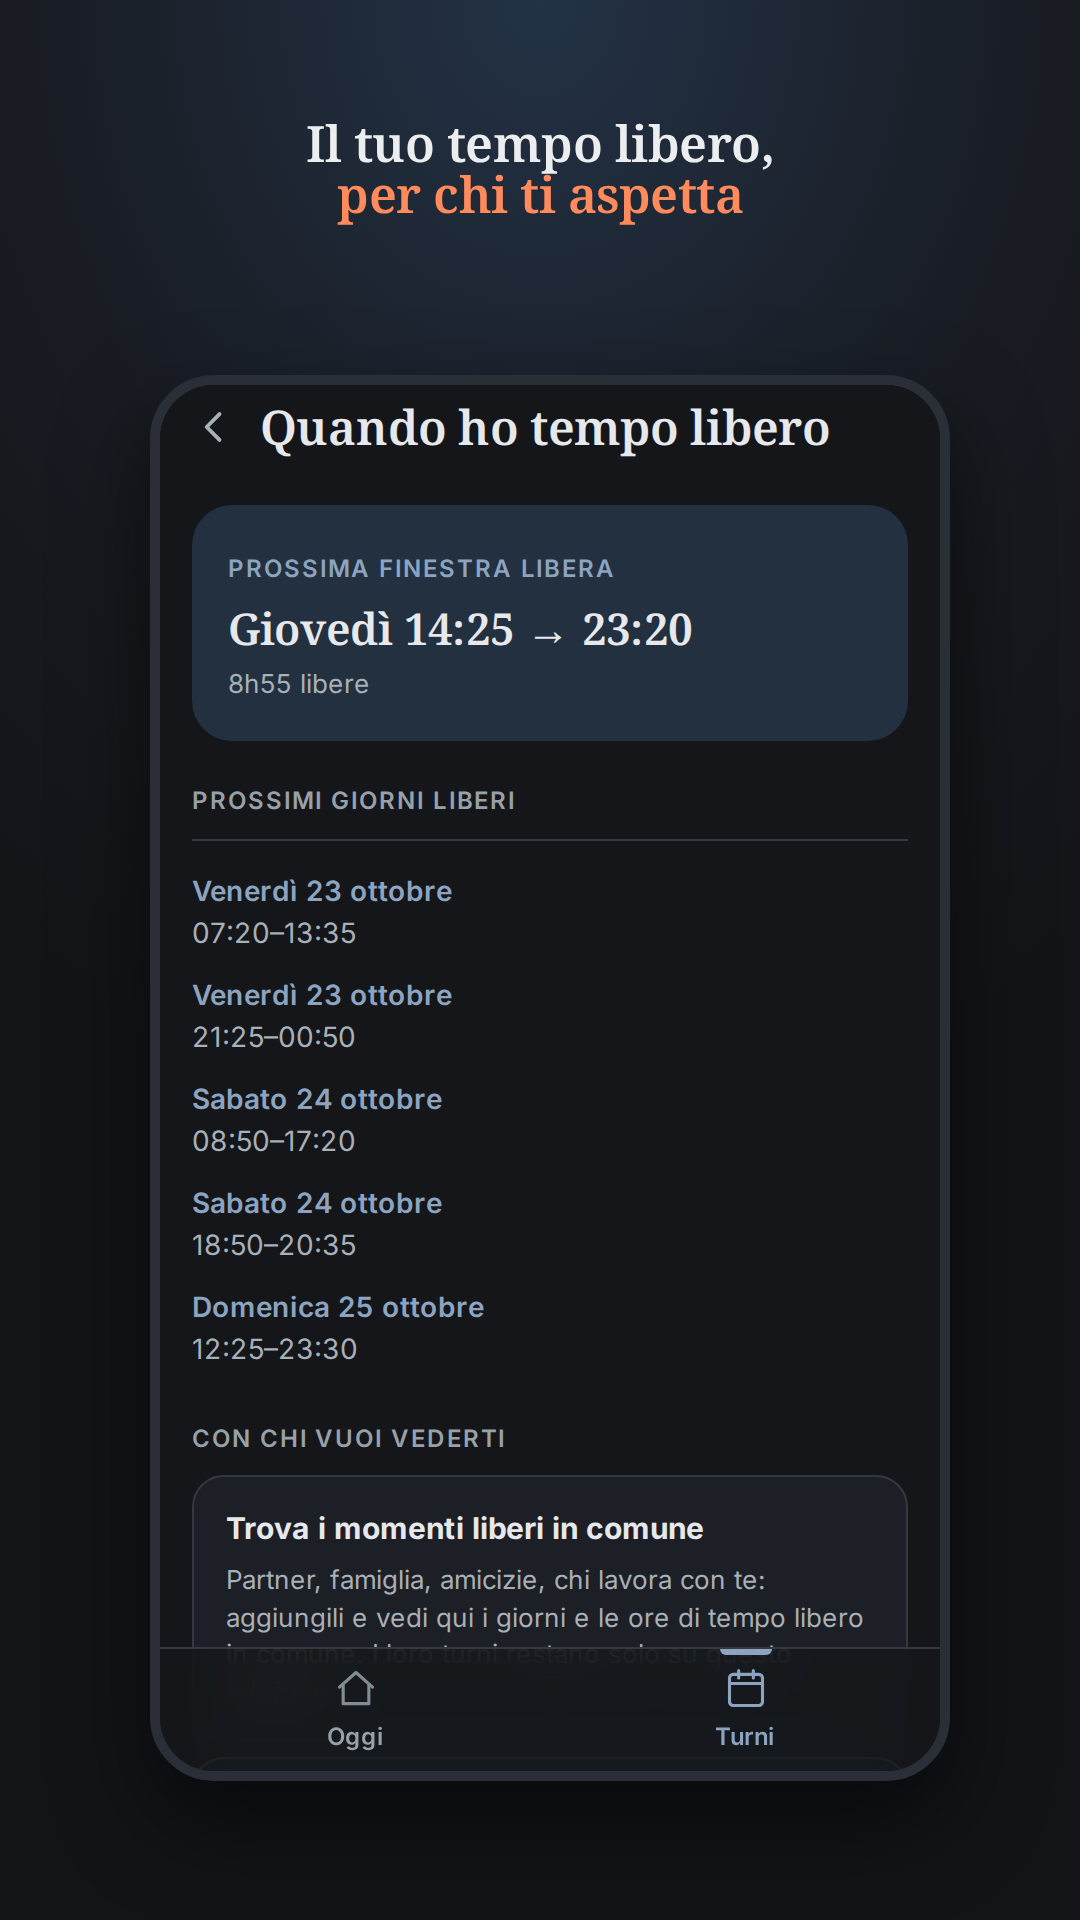
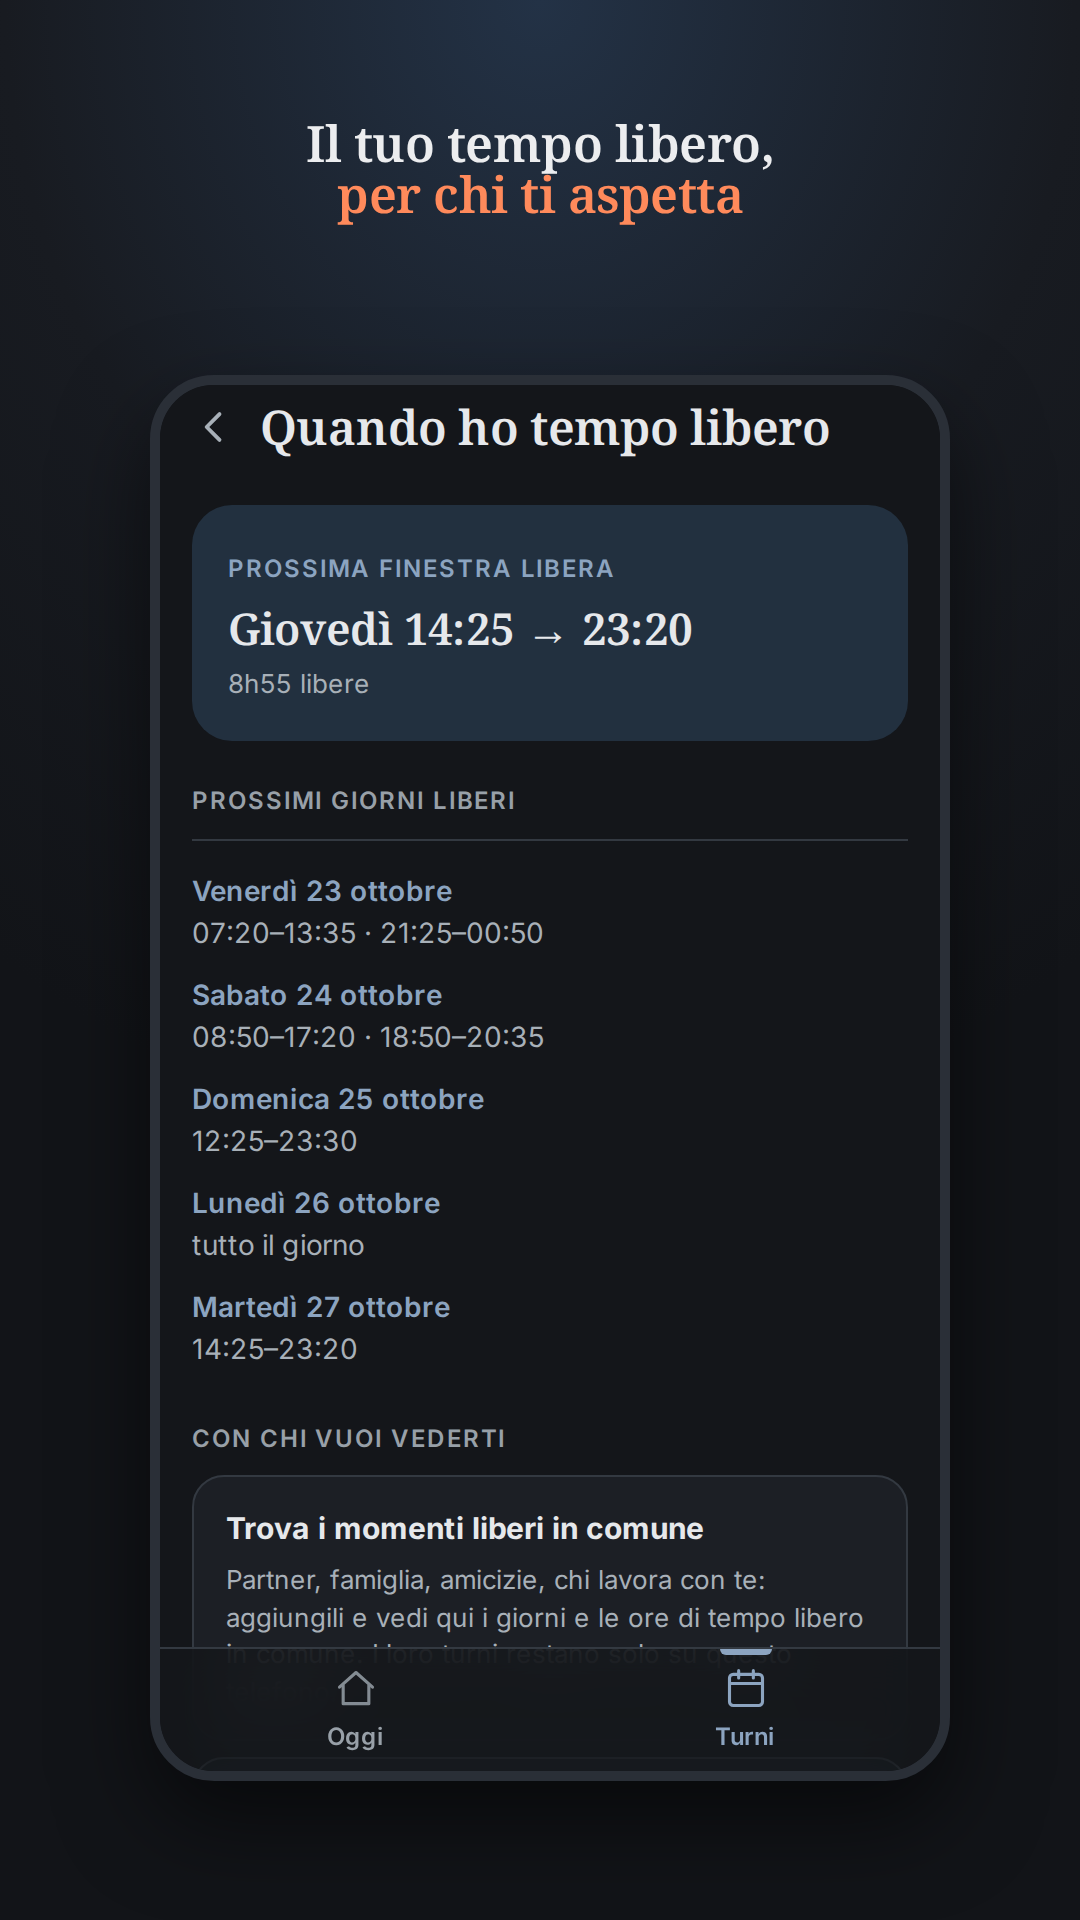
Grafici: assi orari, picco distinguibile, voto per giorno leggibile
Revisione di tutti i grafici e numeri dell'app con le regole di dataviz
(forma, colore verificato con lo script, segni, etichette).

- Turni e Oggi: le barre del tempo hanno le ore di riferimento (00, 06,
  12, 18) e linee sottili sotto le barre; prima non si capiva dove cadesse
  la mezzanotte né se il sonno fosse di giorno.
- Picco di sonnolenza: in tema scuro il rosso era indistinguibile
  dall'arancio del turno (ΔE 3,7). Ora è un punto con anello (forma) in un
  colore suo, --picco, verificato su chiaro e scuro.
- Barre del turno in --orange-bar: sul chiaro contrasto 3:1 o più.
- Voto per giorno: una riga, nome intero (Smonto distinto da Riposo),
  valore con la virgola in fondo alla barra; colore solo sul giorno che
  pesa di più, gli altri neutri.
- Debito di sonno: numero senza segno ridondante, in sans; sparkline
  grigia con lo zero come riferimento, colore sul punto di oggi, date agli
  estremi.
- Tempo libero: un giorno per riga, finestre dello stesso giorno insieme.
- Test: tests/ui/grafici.mjs. Screenshot dello Store rigenerati.

Claude-Session: https://claude.ai/code/session_01R7d13vswTViiovv4LeTsYc

Changed region(s): [[0.1833, 0.4688, 0.4889, 0.7188]]

diff --git a/index.html b/index.html
@@ -135,6 +135,7 @@ try{
   --orange-bar:#FF6B35;
   --orange:#FF9068; --orange-fill:#FF6B35; --orange-soft:#3A2119;
   --risk:#FF6B5C; --risk-soft:#3A1C18; --risk-line:#7A342C;
+  --picco:#D98CF0;   /* picco di sonnolenza nei grafici: il rosso di --risk qui si confonde con l'arancio del turno */
   --sleep-fill:#2D5A8C; --ok:#5FBF85; --on-warm:#15171A;
   --bg-blur:rgba(20,22,26,0.85);
   --warm-tint:#241C15; --cool-tint:#182029;
@@ -154,6 +155,7 @@ try{
     --blue:#2D5A8C; --blue-fill:#2D5A8C; --blue-soft:#E4EBF3; --blue-lt:#5B87B5; --su-blu:#FFFFFF;
     --orange:#B24B25; --orange-fill:#FF6B35; --orange-bar:#D9541F; --orange-soft:#FCE9E1;
     --risk:#C0392B; --risk-soft:#FBE9E7; --risk-line:#E57368;
+    --picco:#8E2A6B;
     --sleep-fill:#24496F; --ok:#2E7D4F; --on-warm:#15171A;
     --bg-blur:rgba(255,255,255,.82);
     --warm-tint:#FBF1E9; --cool-tint:#EAF0F6;
@@ -176,6 +178,7 @@ try{
   --orange-bar:#FF6B35;
   --orange:#FF9068; --orange-fill:#FF6B35; --orange-soft:#3A2119;
   --risk:#FF6B5C; --risk-soft:#3A1C18; --risk-line:#7A342C;
+  --picco:#D98CF0;   /* picco di sonnolenza nei grafici: il rosso di --risk qui si confonde con l'arancio del turno */
   --sleep-fill:#2D5A8C; --ok:#5FBF85; --on-warm:#15171A;
   --bg-blur:rgba(20,22,26,0.85);
   --warm-tint:#241C15; --cool-tint:#182029;
@@ -188,6 +191,7 @@ try{
   --blue:#2D5A8C; --blue-fill:#2D5A8C; --blue-soft:#E4EBF3; --blue-lt:#5B87B5; --su-blu:#FFFFFF;
   --orange:#B24B25; --orange-fill:#FF6B35; --orange-bar:#D9541F; --orange-soft:#FCE9E1;
   --risk:#C0392B; --risk-soft:#FBE9E7; --risk-line:#E57368;
+  --picco:#8E2A6B;
   --sleep-fill:#24496F; --ok:#2E7D4F; --on-warm:#15171A;
   --bg-blur:rgba(255,255,255,.82);
   --warm-tint:#FBF1E9; --cool-tint:#EAF0F6;
@@ -497,7 +501,13 @@ border-top:5px solid var(--ink)}
    che la striscia usava per conto suo (--sleep-fill/--orange-bar) —
    quei token restano dove servivano altrove (#band), qui la tinta è la
    stessa che l'utente vede già ovunque per "sonno" e "turno". */
-.cbar{position:absolute;top:0;bottom:0;border-radius:99px;background:var(--blue)}
+.cbar{position:absolute;top:0;bottom:0;border-radius:99px;background:var(--blue);z-index:2}
+.crows{position:relative}
+.cgrid{position:absolute;top:0;bottom:0;left:86px;right:0;z-index:1;pointer-events:none}
+.cgrid i{position:absolute;top:0;bottom:0;width:1px;background:var(--line);transform:translateX(-.5px)}
+.caxis{display:flex;align-items:flex-end;gap:8px;height:16px;margin-bottom:2px}
+.caxis .crail{background:none;height:16px}
+.caxis .crail span{position:absolute;bottom:0;transform:translateX(-50%);font-size:10.5px;line-height:1;color:var(--faint);white-space:nowrap}
 .cbar.nap{opacity:.5}
 .lnk{background:none;border:none;padding:6px 0;color:var(--blue);font-family:inherit;
 font-size:14px;cursor:pointer;text-decoration:underline;text-underline-offset:3px;min-height:44px}
@@ -517,7 +527,7 @@ html.js-lento .jsoff{display:block}
 .ecc{background:var(--blue-soft);border:1px solid var(--blue-lt);border-radius:var(--r);padding:14px 15px;margin:10px 0 4px}
 .ecc>b{display:block;font-size:16px;margin-bottom:3px}
 .crow.mod .ccode{text-decoration:underline;text-underline-offset:2px}
-.cbar.sh{background:var(--orange-fill)}
+.cbar.sh{background:var(--orange-bar)}
 .key{display:flex;gap:14px;margin-top:8px;font-size:12px;color:var(--faint);flex-wrap:wrap}
 .mese{background:var(--s1);border:1px solid var(--line);border-radius:var(--r);padding:12px 14px;margin-top:12px}
 .mese-testa{display:flex;align-items:center;justify-content:space-between;gap:8px}
@@ -564,7 +574,7 @@ display:flex;flex-direction:column;align-items:center;justify-content:center;gap
 .sg-azioni .btn{flex:1 1 140px;min-height:46px}
 .mese-num{display:grid;grid-template-columns:repeat(auto-fit,minmax(88px,1fr));gap:8px;margin-top:10px}
 .mese-num div{background:var(--bg);border-radius:10px;padding:8px 10px}
-.mese-num b{display:block;font-size:20px;color:var(--ink);font-variant-numeric:tabular-nums}
+.mese-num b{display:block;font-size:20px;color:var(--ink)}
 .mese-segna{display:flex;flex-direction:column;align-items:center;justify-content:center;width:100%;min-height:46px;margin-top:10px;font-weight:600}
 .mese-segna small{font-size:12px;font-weight:400;color:var(--dim);margin-top:1px}
 .mese-vuoto{margin:10px 0 0;font-size:14px;color:var(--dim)}
@@ -573,8 +583,14 @@ display:flex;flex-direction:column;align-items:center;justify-content:center;gap
 .mese .hint{margin:8px 0 0}
 .key i{display:inline-block;width:10px;height:7px;border-radius:3px;margin-right:5px;vertical-align:1px}
 
-.cyb{display:inline-block;width:100%;height:9px;background:var(--s2);border-radius:9px;overflow:hidden;vertical-align:middle}
-.cyb i{display:block;height:100%;background:var(--blue-fill);border-radius:9px}
+.vrow{display:grid;grid-template-columns:minmax(84px,auto) 1fr 30px;align-items:center;gap:10px;padding:5px 0}
+.vlab{font-size:13.5px;color:var(--ink);white-space:nowrap}
+.vbar{height:8px;border-radius:0 4px 4px 0;background:var(--s2);overflow:hidden}
+.vbar i{display:block;height:100%;border-radius:0 4px 4px 0;background:var(--faint);opacity:.55}
+.vrow.giu .vbar i{background:var(--orange);opacity:1}
+.vrow.giu .vlab{font-weight:700}
+.vval{font-size:13.5px;font-weight:600;color:var(--ink);text-align:right}
+.vnota{font-size:13.5px;line-height:1.5;color:var(--ink);margin:10px 0 0}
 
 .card{background:var(--s1);border:1px solid var(--line);border-left-width:3px;border-radius:var(--r);padding:14px 15px;margin-bottom:10px;box-shadow:var(--shadow-card)}
 #benvenutoLink{border-left-color:var(--blue)}
@@ -754,6 +770,7 @@ padding:7px 15px;min-height:38px;border-radius:3px;cursor:pointer}
 .fg-legend{display:flex;gap:14px;margin-top:8px}
 .fg-key{display:flex;align-items:center;gap:5px;font-size:12px;color:var(--faint)}
 .fg-key i{width:8px;height:8px;border-radius:999px;display:inline-block}
+.fg-key i.fg-picco{width:9px;height:9px;background:var(--picco);box-shadow:0 0 0 2px var(--bg),0 0 0 3px var(--line)}
 /* Etichetta di sezione generica — oggi usata per i nomi di settore sopra
    i preset del wizard (Sanità, Industria...). Non più per "Adesso" sopra
    essenziale: quel ruolo lo fa già #ora/.ora-card, il vero eroe della
@@ -1193,7 +1210,7 @@ body:not(.tab-opzioni) #opzioni{display:none}
    un bordo sotto dentro una card più grande. */
 .andamento-hero{background:var(--s1);border:1px solid var(--line);border-radius:20px;
 padding:18px;box-shadow:var(--shadow-card)}
-.andamento-num{font-family:var(--serif);font-size:34px;font-weight:600;line-height:1.15;margin:4px 0 6px}
+.andamento-num{font-family:var(--sans);color:var(--ink);font-size:34px;font-weight:600;line-height:1.15;margin:4px 0 6px}
 /* Badge icona, come le altre card ridisegnate — prima solo testo su
    sfondo colorato, senza l'icona che il mockup usa per l'insight. */
 .andamento-insight{background:var(--blue-soft);border-radius:var(--r);padding:14px;
@@ -5541,17 +5558,23 @@ function renderFormaGiorno(P){
   clo=Math.floor((clo-30)/60)*60; chi=Math.ceil((chi+30)/60)*60;
   const span=Math.max(chi-clo,60), W=335, pos=m=>Math.max(0,Math.min(W,(m-clo)/span*W));
 
-  let segs="";
+  // le ore di riferimento: linee sottili sotto le barre, etichette sotto la striscia
+  let segs="", ore="";
+  for(const m of tacche(clo,chi)){ const x=pos(m), anc = x<16 ? "start" : x>W-16 ? "end" : "middle";
+    segs+='<line x1="'+x.toFixed(1)+'" x2="'+x.toFixed(1)+'" y1="5" y2="25" stroke="var(--line)" stroke-width="1"/>';
+    ore+='<text x="'+x.toFixed(1)+'" y="40" text-anchor="'+anc+'" font-size="10.5" fill="var(--faint)">'+hhmm(m)+'</text>'; }
   const seg=(a,z,fill)=>{ const x0=pos(a),x1=pos(z); if(x1>x0) segs+='<rect x="'+x0.toFixed(1)+'" y="9" width="'+(x1-x0).toFixed(1)+'" height="12" rx="6" fill="'+fill+'"/>'; };
   seg(P.s.onset, P.s.onset+P.s.dur, "var(--blue)");
   for(const n of (P.naps||[])) seg(n.a, n.b, "var(--blue)");
-  if(!P.b.rest) seg(P.b.start, P.b.end, "var(--orange-fill)");
+  if(!P.b.rest) seg(P.b.start, P.b.end, "var(--orange-bar)");
   // Il minimo corporeo (cbt) è il punto di massima sonnolenza: non un
   // segmento a sé altrove nell'app, ma un dato già calcolato dal motore
   // (usato per decidere dove tenere la luce) — qui diventa un piccolo
   // intaglio rosso, ±20 min intorno al minimo, solo se cade nella finestra.
-  const cbtVisibile = isFinite(P.cbt) && P.cbt>=clo-20 && P.cbt<=chi+20;
-  if(cbtVisibile) seg(P.cbt-20, P.cbt+20, "var(--risk)");
+  // È un punto, non una serie: un pallino con l'anello del colore di fondo,
+  // così si distingue per forma oltre che per colore anche sopra il turno.
+  const cbtVisibile = isFinite(P.cbt) && P.cbt>=clo && P.cbt<=chi;
+  const picco = cbtVisibile ? '<circle cx="'+pos(P.cbt).toFixed(1)+'" cy="15" r="5.5" fill="var(--picco)" stroke="var(--bg)" stroke-width="2"/>' : "";
 
   let now="";
   if(nowT!==null && nowT>=clo && nowT<=chi){
@@ -5560,12 +5583,12 @@ function renderFormaGiorno(P){
   }
 
   const legenda=['<span class="fg-key"><i style="background:var(--blue)"></i>Sonno</span>'];
-  if(!P.b.rest) legenda.push('<span class="fg-key"><i style="background:var(--orange-fill)"></i>Turno</span>');
-  if(cbtVisibile) legenda.push('<span class="fg-key"><i style="background:var(--risk)"></i>Picco di sonnolenza</span>');
+  if(!P.b.rest) legenda.push('<span class="fg-key"><i style="background:var(--orange-bar)"></i>Turno</span>');
+  if(cbtVisibile) legenda.push('<span class="fg-key"><i class="fg-picco"></i>Picco di sonnolenza</span>');
 
   el.innerHTML =
-    '<svg viewBox="0 0 '+W+' 30" style="width:100%;height:30px;display:block" role="img" aria-label="Forma della giornata">'+
-      '<rect x="0" y="9" width="'+W+'" height="12" rx="6" fill="var(--s2)"/>'+segs+now+
+    '<svg viewBox="0 0 '+W+' 44" style="width:100%;height:44px;display:block" role="img" aria-label="Forma della giornata, dalle '+hhmm(clo)+' alle '+hhmm(chi)+'">'+
+      '<rect x="0" y="9" width="'+W+'" height="12" rx="6" fill="var(--s2)"/>'+segs+picco+now+ore+
     '</svg>'+
     '<div class="fg-legend">'+legenda.join("")+'</div>';
 }
@@ -6072,6 +6095,11 @@ if($("#meseBox")) $("#meseBox").addEventListener("click", e=>{
   const b=e.target.closest("[data-mese]"); if(!b || b.disabled) return;
   meseOff=Math.max(-12, Math.min(12, meseOff + +b.dataset.mese)); renderMese();
 });
+// Riferimenti orari per le strisce del tempo: le 00, 06, 12 e 18 che cadono
+// nella finestra [clo, chi] (minuti sulla scala del giorno, anche oltre 1440).
+// Senza, una barra di sonno o di turno non si legge: non si sa dove cade la
+// mezzanotte, né se il sonno è di notte o di giorno.
+function tacche(clo, chi){ const out=[]; for(let m=Math.ceil(clo/360)*360; m<=chi; m+=360) out.push(m); return out; }
 function renderStrip(P, f, S){
   // Scala unica per tutte le righe, senza avvolgimenti: così ogni barra
   // resta sul giorno a cui appartiene e non se ne va a finire su quello dopo.
@@ -6097,7 +6125,12 @@ function renderStrip(P, f, S){
   if(oggiInFinestra && isFinite(clo)){ clo=Math.min(clo,oggiM); chi=Math.max(chi,oggiM); }
   clo=Math.floor((clo-30)/60)*60; chi=Math.ceil((chi+30)/60)*60;
   const cspan=Math.max(chi-clo,60), cpx=m=>(m-clo)/cspan*100;
-  let ch="";
+  const tk=tacche(clo,chi);
+  let ch='<div class="caxis" aria-hidden="true"><span class="clab"></span><span class="ccode"></span><span class="crail">'+
+    // proprio sul bordo resta la linea ma non l'etichetta: si accavallerebbe
+    // con la vicina o uscirebbe dal riquadro
+    tk.map(m=>{ const x=cpx(m); return x<7 || x>93 ? '' : '<span style="left:'+x+'%">'+hhmm(m)+'</span>'; }).join("")+'</span></div><div class="crows">'+
+    '<div class="cgrid" aria-hidden="true">'+tk.map(m=>'<i style="left:'+cpx(m)+'%"></i>').join("")+'</div>';
   for(let o=finLo;o<=finHi;o++){
     const d=day(f,o), k=NT.codeAt(o), sd=NT.at(S,o), bb=NT.block(o), seg=[];
     if(!sd||!bb) continue;
@@ -6117,17 +6150,16 @@ function renderStrip(P, f, S){
       (o===0 && cpx(oggiM)>=0 && cpx(oggiM)<=100 ? '<span class="cnow" style="left:'+cpx(oggiM)+'%" title="adesso"></span>' : '')+
       '</span></div>';
   }
-  // Niente più asse orario sotto la striscia (.caxis): la striscia del
-  // ciclo mostra GIORNI, non orari nella giornata — a differenza di
-  // formaGiorno in Oggi, dove le ore sono il punto. Qui ripetevano solo
-  // un'ampiezza approssimativa dell'intera finestra, già leggibile dalle
-  // etichette dei giorni sopra.
+  // Asse orario in alto (00, 06, 12, 18) e le stesse ore come linee sottili
+  // sotto le barre: le barre stanno sull'ora, e senza riferimenti non si
+  // capiva dove cadeva la mezzanotte, né se il sonno fosse di giorno.
+  ch+='</div>';
   // "Il tuo ciclo" torna alle sole funzioni base (sonno + turno): tolti il
   // riposo del partner (vive in "Quando sono disponibile"), l'avviso di
   // rischio (notti di fila, turno rientrante, minimo circadiano: è una riga
   // in Oggi, rischioDelGiorno) e il pallino dell'umore dal diario.
   $("#cyc").innerHTML=ch+
-    '<div class="key">'+'<span><i style="background:var(--blue)"></i>Sonno</span>'+'<span><i style="background:var(--orange-fill)"></i>Turno</span>'+'</div>';
+    '<div class="key">'+'<span><i style="background:var(--blue)"></i>Sonno</span>'+'<span><i style="background:var(--orange-bar)"></i>Turno</span>'+'</div>';
   // L'etichetta del range: stessa finestra usata sopra per costruire la
   // striscia (finestraCiclo()), non un calcolo separato che rischierebbe
   // di disallinearsi da quello che si vede davvero.
@@ -6377,21 +6409,27 @@ function renderAndamenti(){
       if(trend && trend.n>=3){
         const d=trend.debtNow;
         const vals=trend.series.map(s=>s.debt);
-        const W=280,H=44,pad=4;
+        const W=280,H=58,pad=5,Hp=44;   // Hp: il grafico; sotto, le date
         const mn=Math.min(0,...vals), mx=Math.max(0,...vals), span=Math.max(mx-mn,30);
         const xAt=i=> vals.length>1 ? (i/(vals.length-1))*(W-pad*2)+pad : W/2;
-        const yAt=v=> H-pad-((v-mn)/span)*(H-pad*2);
+        const yAt=v=> Hp-pad-((v-mn)/span)*(Hp-pad*2);
         const pts=vals.map((v,i)=>xAt(i).toFixed(1)+","+yAt(v).toFixed(1)).join(" ");
         const lx=xAt(vals.length-1).toFixed(1), ly=yAt(vals[vals.length-1]).toFixed(1);
-        const numColor = d>0 ? "var(--orange)" : "var(--ok)";
+        // Il numero nel colore del testo e senza segno (l'etichetta dice già se
+        // manca o avanza); il colore sta sul punto di oggi. La linea è grigia,
+        // con lo zero (in pari) come riferimento sottile: più su, più sonno da recuperare.
+        const tinta = d>0 ? "var(--orange)" : "var(--ok)", y0=yAt(0).toFixed(1);
         heroHtml='<div class="andamento-hero">'+
           '<span class="hint" style="display:block">'+(d>0?"Sonno che ti manca":"Sonno in più del necessario")+' · ultime '+trend.series.length+' notti</span>'+
-          '<div class="andamento-num" style="color:'+numColor+'">'+(d>0?"-":"+")+hm(Math.abs(d))+'</div>'+
+          '<div class="andamento-num">'+hm(Math.abs(d))+'</div>'+
           '<span class="hint" style="display:block">Dormi in media '+hm(trend.avgActual)+
             (trend.avgPlanned?' contro '+hm(trend.avgPlanned)+' pianificate':'')+'</span>'+
-          '<svg viewBox="0 0 '+W+' '+H+'" style="width:100%;height:'+H+'px;display:block;margin-top:10px" role="img" aria-label="Andamento del debito di sonno">'+
-            '<polyline points="'+pts+'" fill="none" stroke="var(--orange)" stroke-width="2.2" stroke-linecap="round" stroke-linejoin="round"/>'+
-            '<circle cx="'+lx+'" cy="'+ly+'" r="3.5" fill="var(--orange)"/>'+
+          '<svg viewBox="0 0 '+W+' '+H+'" style="width:100%;height:'+H+'px;display:block;margin-top:10px" role="img" aria-label="Andamento del sonno da recuperare nelle ultime '+trend.series.length+' notti: oggi '+hm(Math.abs(d))+(d>0?' da recuperare':' in più')+'">'+
+            '<line x1="'+pad+'" x2="'+(W-pad)+'" y1="'+y0+'" y2="'+y0+'" stroke="var(--line)" stroke-width="1"/>'+
+            '<polyline points="'+pts+'" fill="none" stroke="var(--faint)" stroke-width="2" stroke-linecap="round" stroke-linejoin="round"/>'+
+            '<circle cx="'+lx+'" cy="'+ly+'" r="4.5" fill="'+tinta+'" stroke="var(--s1)" stroke-width="2"/>'+
+            '<text x="'+pad+'" y="'+(H-2)+'" font-size="10" fill="var(--faint)">'+trend.series.length+' notti fa</text>'+
+            '<text x="'+(W-pad)+'" y="'+(H-2)+'" font-size="10" fill="var(--faint)" text-anchor="end">oggi</text>'+
           '</svg>'+
         '</div>';
       }
@@ -6421,16 +6459,25 @@ function renderAndamenti(){
   }catch(e){}
 
   if(cs){
+    // Barre del voto medio (1–5) per giorno del ciclo: una riga per giorno, il
+    // nome per intero, il valore in fondo alla barra. Il colore lo porta solo
+    // il giorno che pesa di più (quello della frase sotto); gli altri restano
+    // neutri, così si vede subito dove guardare.
+    const p=cs.righe.map(r=>r.c).join(""), notte=c=>isNightCode(c);
+    const nome=r=>{ const tot=p.split("").filter(c=>c===r.c).length;
+      let n=1; for(let j=r.i-1;j>=0 && p[j]===r.c;j--) n++;
+      const base = state.shifts[r.c] ? state.shifts[r.c].n : (r.i>0 && notte(p[r.i-1]) ? "Smonto" : "Riposo");
+      return base+(tot>1 && state.shifts[r.c] ? " "+n+"/"+tot : ""); };
+    const segnato = cs.frase ? cs.peggio.i : -1;
     let righe='';
-    cs.righe.forEach(r=>{ const largh = r.avg===null ? 0 : Math.round((r.avg-1)/4*100);
-      righe+='<div class="row"><b style="min-width:34px;font-family:var(--sans)">'+esc(r.c)+'</b>'+
-        '<span style="flex:1"><span class="cyb"><i style="width:'+largh+'%"></i></span></span>'+
-        '<span style="min-width:62px;text-align:right;color:var(--dim)">'+
-        (r.avg===null?"—":r.avg.toFixed(1)+" · "+r.n)+'</span></div>'; });
+    cs.righe.forEach(r=>{ const largh = r.avg===null ? 0 : Math.max(2, Math.round((r.avg-1)/4*100));
+      righe+='<div class="vrow'+(r.i===segnato?" giu":"")+'"><span class="vlab">'+esc(nome(r))+'</span>'+
+        '<span class="vbar"><i style="width:'+largh+'%"></i></span>'+
+        '<span class="vval">'+(r.avg===null?"—":r.avg.toFixed(1).replace(".",","))+'</span></div>'; });
     // La frase resta qui SOLO se non è già stata promossa in cima.
-    if(cs.frase && !(capo && capo.fonte==="cs")) righe+='<div class="row" style="margin-top:6px"><span style="color:var(--amber)">'+cs.frase+'</span></div>';
-    sezioni.push('<div><span class="eyebrow andamento-eyebrow">Il tuo ciclo giorno per giorno, da '+cs.voti+' voti</span>'+
-      '<div class="andamento-sezione"><div class="rows">'+righe+'</div></div></div>');
+    if(cs.frase && !(capo && capo.fonte==="cs")) righe+='<p class="vnota">'+cs.frase.replace(/(\d)\.(\d)/g,"$1,$2")+'</p>';
+    sezioni.push('<div><span class="eyebrow andamento-eyebrow">Come stai, giorno per giorno</span>'+
+      '<div class="andamento-sezione"><p class="hint" style="margin:0 0 6px">Voto medio da 1 a 5, da '+cs.voti+' voti</p>'+righe+'</div></div>');
   }
 
   const rowsHtml = sezioni.join("");
@@ -6568,10 +6615,17 @@ function renderPartner(CARDS){
       '<div class="whero-num">'+esc(giornoCap)+(tutto?"":" "+hhmm(x.a)+" → "+hhmm(x.b))+'</div>'+
       '<div class="whero-sub">'+(tutto?"Libero tutto il giorno":hm(x.b-x.a)+" libere")+'</div>'+
       '</div>';
-    const altre=libere.slice(1,6).map(y=>{
-      const gy=y.d.toLocaleDateString(LINGUA,{weekday:"long",day:"numeric",month:"long"});
+    // Un giorno, una riga: due finestre dello stesso giorno stanno insieme
+    // («07:50–19:30 · 19:50–21:35»), invece di ripetere la data due volte.
+    const perGiorno=[];
+    for(const y of libere.slice(1)){
+      const k=iso(y.d), g=perGiorno.find(z=>z.k===k);
+      if(g) g.f.push(y); else if(perGiorno.length<5) perGiorno.push({k, d:y.d, f:[y]});
+    }
+    const altre=perGiorno.map(g=>{
+      const gy=g.d.toLocaleDateString(LINGUA,{weekday:"long",day:"numeric",month:"long"});
       const gyCap=gy.charAt(0).toUpperCase()+gy.slice(1);
-      return '<div class="row"><b>'+esc(gyCap)+'</b><span>'+(finestraTuttoIlGiorno(y)?"tutto il giorno":hhmm(y.a)+"–"+hhmm(y.b))+'</span></div>';
+      return '<div class="row"><b>'+esc(gyCap)+'</b><span>'+(g.f.some(finestraTuttoIlGiorno)?"tutto il giorno":g.f.map(y=>hhmm(y.a)+"–"+hhmm(y.b)).join(" · "))+'</span></div>';
     }).join("");
     if(altre) h+='<span class="eyebrow" style="display:block;margin:var(--gap-sezione) 0 8px">Prossimi giorni liberi</span><div class="rows">'+altre+'</div>';
   } else {
